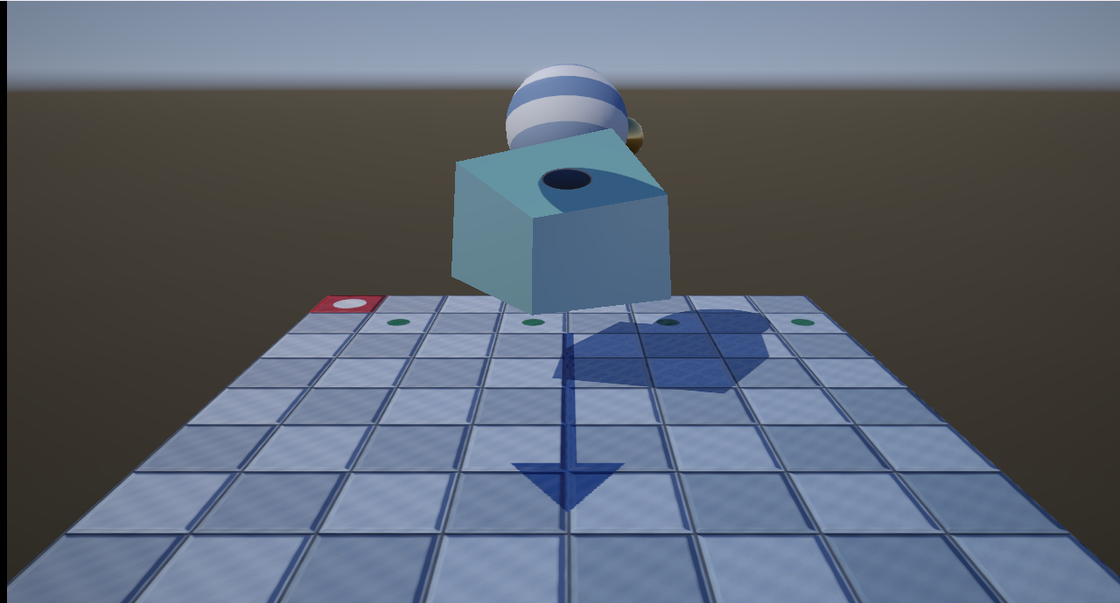
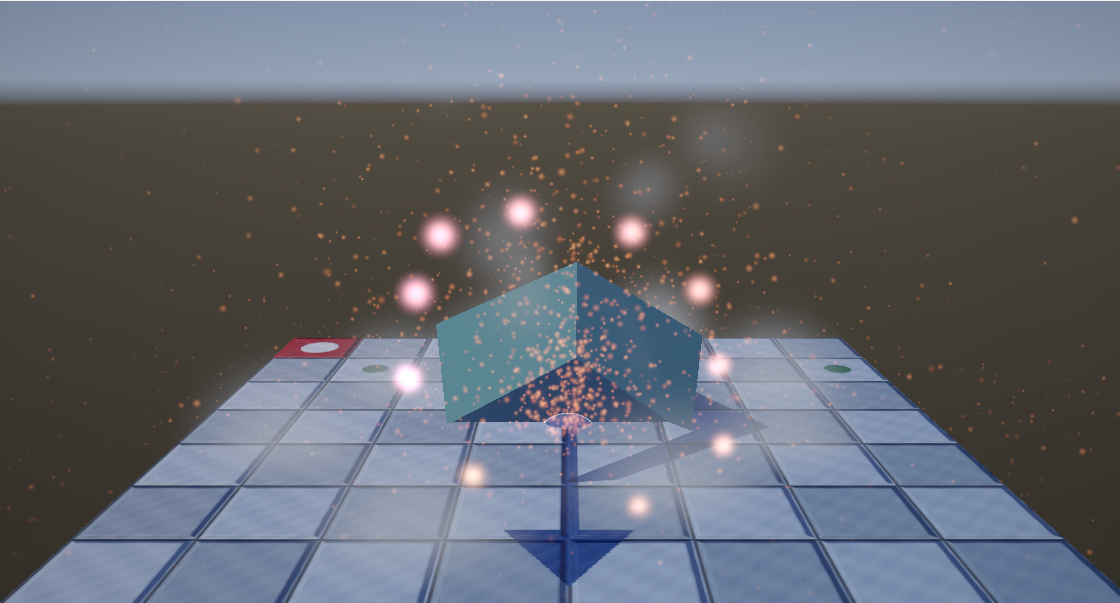
docs: 公開に合わせて README の導入とトップ画像を現状に合わせる
「初期化から画面表示まで」は 6 章の頃の説明で、いまは 29 章まで進んでいる。
外部ライブラリを使わない方針と、主張を必ず測ってから書いている点を先頭に
書いた。ここがリポジトリの説明文と対応する。

トップ画像は VFX を入れる前のもので、パーティクルも霧もブルームも写って
いなかったため撮り直した。

diff --git a/README.md b/README.md
@@ -1,10 +1,14 @@
 # DirectX 12 Dev — DirectX 12 学習プロジェクト
 
-DirectX 12 を **初期化から画面表示まで一歩ずつ理解する** ための学習用リポジトリです。
-「動くサンプル」ではなく「**なぜそう書くのかが分かるサンプル**」を目指し、
-コードは読みやすさを優先し、仕組みの解説は `docs/tutorial/` にまとめています。
+DirectX 12 を **一歩ずつ積み上げて理解する** ための学習用リポジトリです。
+DirectXTK12 や `d3dx12.h` を使わず、**生の DirectX 12 API だけ**で書いています。
+ヘルパーが隠してしまう手順そのものが学習の対象だからです。
 
-現在の到達点：**モデルをファイルから読み込み、影・映り込み・凹凸・にじみを付けて自由に見回せる**
+「動くサンプル」ではなく「**なぜそう書くのかが分かるサンプル**」を目指し、
+コードは読みやすさを優先し、仕組みの解説は `docs/tutorial/`（全 29 章）に
+まとめています。性能や見た目の主張は、必ず**測ってから**書いています。
+
+現在の到達点：**モデルを読み込み、影・映り込み・凹凸・後処理・VFX を載せて自由に見回せる**
 
 ![いまのシーン](docs/assets/current-scene.png)
 
